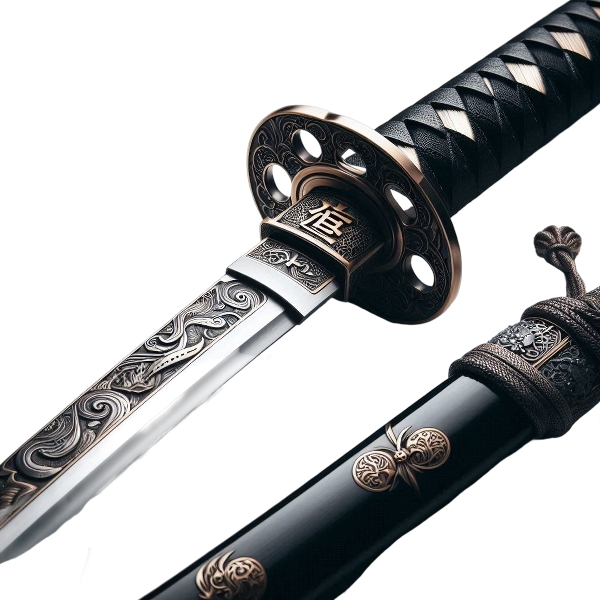
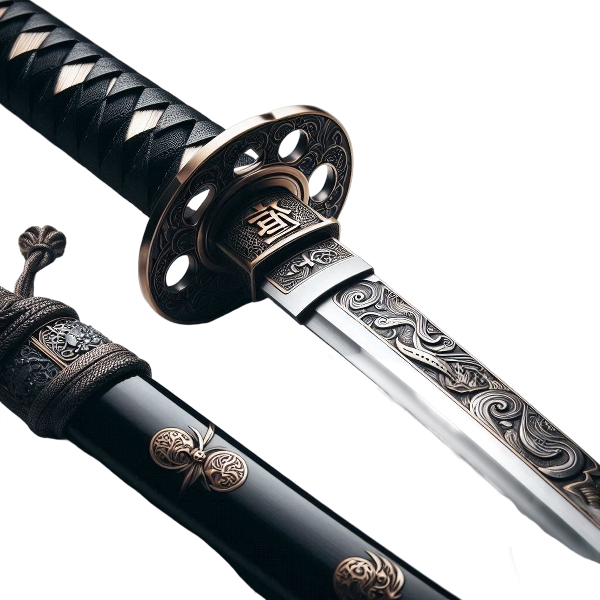
Bar Promo Animations

diff --git a/src/components/page-specific/home/BarPromo.tsx b/src/components/page-specific/home/BarPromo.tsx
@@ -1,19 +1,47 @@
+// Hooks
+import useInView from "../../../hooks/useInView";
+// Assets
 import SushiImage from "../../../assets/items/sushi-5.png";
 import SushiImage2 from "../../../assets/items/sushi-6.png";
 import SushiImage3 from "../../../assets/items/sushi-8.png";
 
 const BarPromo: React.FC = () => {
+  const isTextInView = useInView(".food-delivery-text");
+  const firstImageInView = useInView(
+    ".alcohol-and-appetizer-image-wrapper .appetizer-image:nth-child(1)"
+  );
+  const secondImageInView = useInView(
+    ".alcohol-and-appetizer-image-wrapper .appetizer-image:nth-child(2)"
+  );
+  const thirdImageInView = useInView(
+    ".alcohol-and-appetizer-image-wrapper .appetizer-image:nth-child(3)"
+  );
+
   return (
     <section className="bar-promo padding-left-and-right padding-top-80 padding-bottom-80 display-grid dark-image-overlay-600">
-      <div className="bar-promo-text full-flex">
-        <h2>
+      <div className={`bar-promo-text-wrapper full-flex`}>
+        <h2
+          className={`bar-promo-text position-relative${isTextInView ? " bar-promo-text-animated" : ""}`}
+        >
           Sit at the bar during happy hour and enjoy 50% off of appetizers
         </h2>
       </div>
       <div className="alcohol-and-appetizer-image-wrapper full-flex gap-10">
-        <img src={SushiImage3} alt="sushi" />
-        <img src={SushiImage} alt="sushi" />
-        <img src={SushiImage2} alt="sushi" />
+        <img
+          className={`appetizer-image ${firstImageInView ? "appetizer-image-animated" : ""}`}
+          src={SushiImage3}
+          alt="sushi"
+        />
+        <img
+          className={`appetizer-image ${secondImageInView ? "appetizer-image-animated" : ""}`}
+          src={SushiImage}
+          alt="sushi"
+        />
+        <img
+          className={`appetizer-image ${thirdImageInView ? "appetizer-image-animated" : ""}`}
+          src={SushiImage2}
+          alt="sushi"
+        />
       </div>
     </section>
   );

diff --git a/src/css/page-specific/home.scss b/src/css/page-specific/home.scss
@@ -100,6 +100,7 @@
     .food-delivery-text {
       color: $primary-900;
       opacity: 0;
+
       &.food-delivery-text-animated {
         opacity: 1;
         animation-name: fade-in-left;
@@ -134,12 +135,41 @@
     grid-template-columns: 1fr 2fr;
 
     .bar-promo-text {
-      color: $neutral-100;
+      color: $primary-100;
+      opacity: 0;
+      left: 100%;
+
+      &.bar-promo-text-animated {
+        opacity: 1;
+        left: 0;
+        animation-name: fade-in-left;
+        animation-timing-function: ease-in;
+        animation-duration: 1s;
+      }
     }
 
     .alcohol-and-appetizer-image-wrapper {
-      img {
+      .appetizer-image {
         width: 33%;
+        opacity: 1;
+
+        &.appetizer-image-animated {
+          opacity: 0;
+          animation-name: fade-in-left;
+          animation-timing-function: ease-in;
+          animation-duration: 1s;
+          animation-fill-mode: forwards;
+        }
+      }
+
+      .appetizer-image:nth-of-type(1) {
+        animation-delay: 0.5s;
+      }
+      .appetizer-image:nth-of-type(2) {
+        animation-delay: 1s;
+      }
+      .appetizer-image:nth-of-type(3) {
+        animation-delay: 1.5s;
       }
     }
 
@@ -151,7 +181,7 @@
         width: 100%;
         flex-wrap: wrap;
 
-        img {
+        .appetizer-image {
           width: 50%;
         }
       }

diff --git a/src/components/page-specific/home/OurMenu.tsx b/src/components/page-specific/home/OurMenu.tsx
@@ -14,7 +14,7 @@ import NigiriImage from "../../../assets/menu/ngiri.png";
 import SignatureRollImage from "../../../assets/menu/signature-roll.png";
 
 import Teapot from "../../../assets/items/teapot.png";
-import SamuraiSword from "../../../assets/items/samurai-sword-1.png";
+import SamuraiSword from "../../../assets/items/samurai-sword-2.png";
 import BowlOfRice from "../../../assets/items/bowl-of-rice.png";
 
 const OurMenu: React.FC = () => {
@@ -87,12 +87,13 @@ const OurMenu: React.FC = () => {
         imgAlt="Bowl of Rice"
         position="top-left"
       />
-      <DecorativeImage imgSrc={Teapot} imgAlt="Teapot" position="center-right" />
       <DecorativeImage
         imgSrc={SamuraiSword}
         imgAlt="Handfan"
-        position="bottom-left"
+        position="center-right"
       />
+      <DecorativeImage imgSrc={Teapot} imgAlt="Teapot" position="bottom-left" />
+      
 
       <div className="menu-wrapper full-flex gap-40">
         <div className="menu-items display-grid gap-20">

diff --git a/src/components/page-specific/home/Reviews.tsx b/src/components/page-specific/home/Reviews.tsx
@@ -66,7 +66,11 @@ const Reviews: React.FC = () => {
     <section className="our-reviews padding-left-and-right padding-top-80 padding-bottom-80 position-relative">
       <h2 className="page-title">Our Reviews</h2>
 
-      <DecorativeImage imgSrc={Sake} imgAlt="Sake Bottle" position="top-right" />
+      <DecorativeImage
+        imgSrc={Sake}
+        imgAlt="Sake Bottle"
+        position="top-right"
+      />
       <DecorativeImage
         imgSrc={Handfan1}
         imgAlt="Handfan"
@@ -79,9 +83,10 @@ const Reviews: React.FC = () => {
       />
 
       <div className="reviews-wrapper display-grid">
-        {reviews.map((review) => {
+        {reviews.map((review, index) => {
           return (
             <CustomerReview
+              key={index}
               authorImage={review.authorImage}
               authorName={review.authorName}
               rating={review.rating}

diff --git a/src/components/page-specific/home/menu-row/MenuRow.tsx b/src/components/page-specific/home/menu-row/MenuRow.tsx
@@ -13,7 +13,7 @@ const MenuRow: React.FC<MenuRowProps> = ({ title, description, isLast }) => {
       <hr className="menu-row-hr"></hr>
       <div className="menu-row-container display-flex justify-content-left flex-direction-column full-width">
         <h5>{title}</h5>
-        <p>{description}</p>
+        <p className="padding-top-20">{description}</p>
       </div>
       {isLast && <hr className="menu-row-hr"></hr>}
     </>

diff --git a/src/components/general-page-layout/decorative-image/DecorativeImage.tsx b/src/components/general-page-layout/decorative-image/DecorativeImage.tsx
@@ -1,5 +1,3 @@
-// Library Imports
-import { FC } from "react";
 // Hooks
 import useIntersectionAnimation from "../../../hooks/useIntersectionAnimation";
 // CSS
@@ -17,7 +15,7 @@ export interface DecorativeImageProps {
     | "bottom-right";
 }
 
-const DecorativeImage: FC<DecorativeImageProps> = ({
+const DecorativeImage: React.FC<DecorativeImageProps> = ({
   imgSrc,
   imgAlt,
   position,

diff --git a/src/css/page-specific/about-us.scss b/src/css/page-specific/about-us.scss
@@ -3,7 +3,7 @@
 .about-us {
   background-color: $neutral-100;
 
-  background-image: url("../../assets/backgrounds/bar.png");
+  background-image: url("../../assets/backgrounds/cherry-blossom-wall.png");
   background-size: cover;
   background-position-y: 60%;
   background-repeat: no-repeat;

diff --git a/src/components/page-specific/home/menu-card/menu-card.scss b/src/components/page-specific/home/menu-card/menu-card.scss
@@ -13,7 +13,7 @@
 
   .menu-card-title {
     position: absolute;
-    top: 80%;
+    top: 50%;
     left: 50%;
     transform: translate(-50%, -50%);
     color: $neutral-100;
